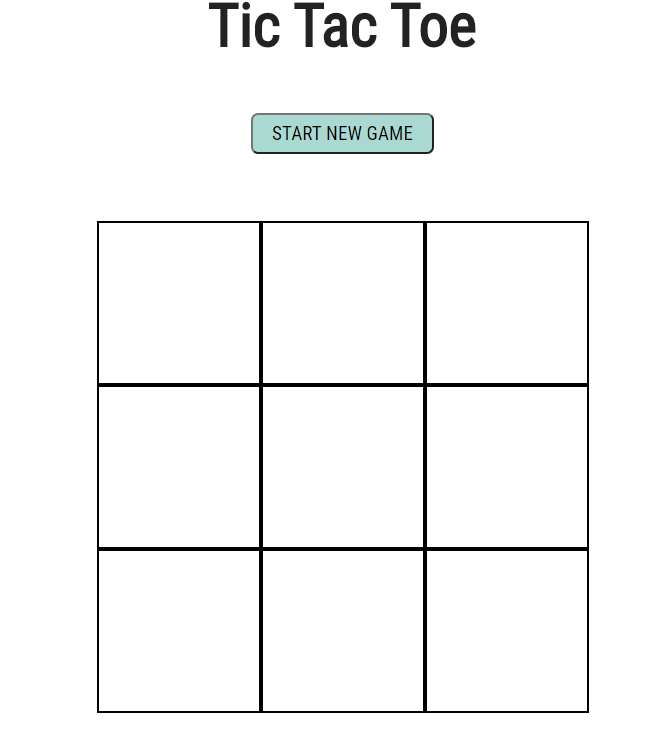
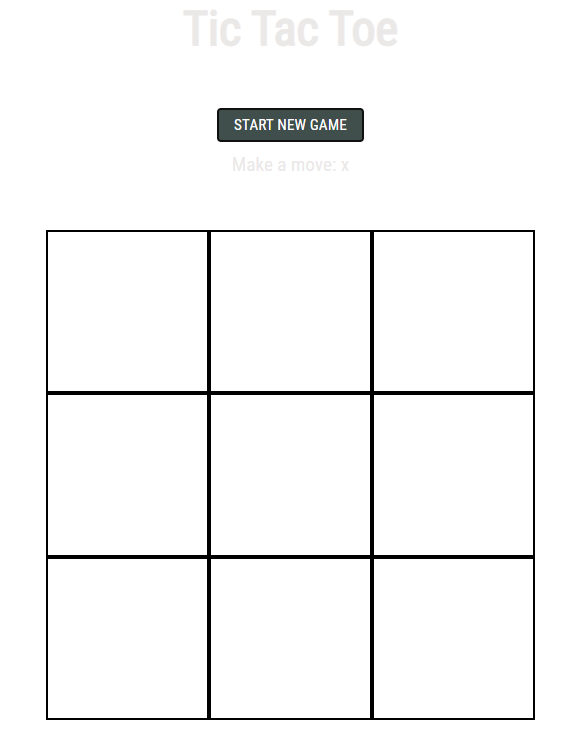
Edit css file and merge branch to master

diff --git a/styles/main.css b/styles/main.css
@@ -9,7 +9,7 @@ html {
 }
 
 body {
-  color: #222;
+  color: rgb(235, 232, 232);
   font-family: 'Roboto Condensed', sans-serif;
   height: 100%;
   font-family: 'Roboto Condensed', sans-serif;
@@ -59,20 +59,19 @@ input[type=submit] {
   font-family: inherit;
   font-size: 0.8rem;
   text-transform: uppercase;
-  border-radius: 0.3rem;
-  background-color: #A9D9D1;
-  color: #000;
+  border-radius: 0.1rem;
+  background-color: #404e4c;
+  color: #fff;
 }
 
 #start-button:active{
-  background-color: #41BA75;
+  background-color: #101311;
   color: white;
 }
 
 #tie-or-win {
-  background-color: #05910c;
   font-size: 1.5rem;
-  color: #FFF;
+  color: #05910c;
 }
 
 .button-moves{
@@ -90,5 +89,5 @@ input[type=submit] {
 }
 
 .player-two-move {
-  background-color: #f1f52e;
+  background-color: #404e4c;
 }
